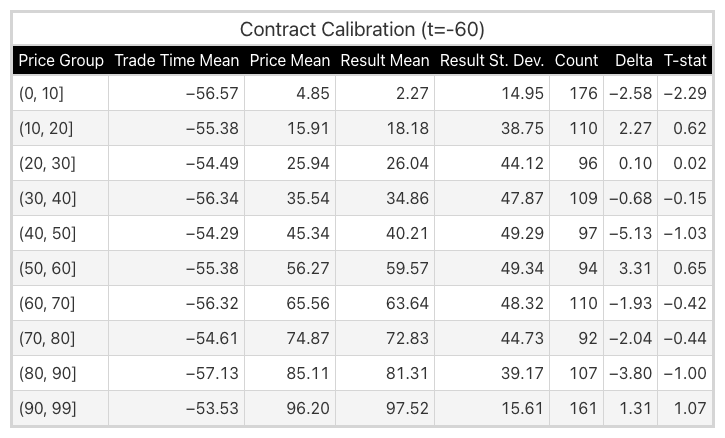
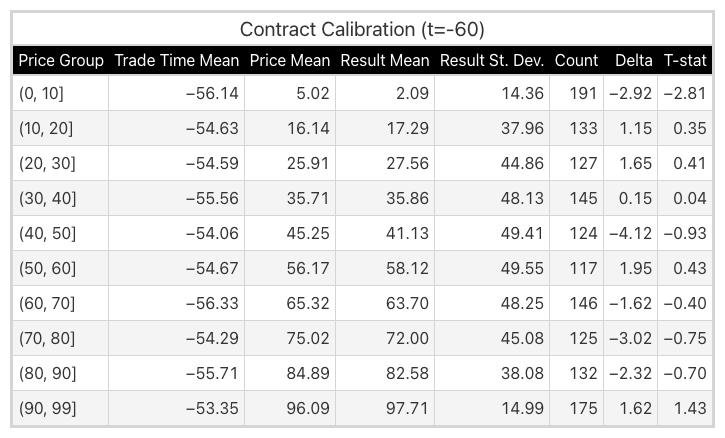
Updated results.

diff --git a/nt_research/research/underdog_risk_premium/experiment_4.py b/nt_research/research/underdog_risk_premium/experiment_4.py
@@ -160,7 +160,7 @@ if __name__ == "__main__":
     os.makedirs(folder, exist_ok=True)
 
     # Load data
-    df = pl.read_parquet('data/2025-10-23_history_daily.parquet')
+    df = pl.read_parquet('data/2025-11-02_history_daily.parquet')
 
     # Get strategy returns
     results = get_strategy_returns(df, price_min, price_max)

diff --git a/nt_research/research/underdog_risk_premium/data_utils.py b/nt_research/research/underdog_risk_premium/data_utils.py
@@ -8,7 +8,7 @@ def get_trades(
     time_bin: str | None = None,
     price_bin: str | None = None,
 ):
-    df = pl.read_parquet("data/2025-10-23_history.parquet")
+    df = pl.read_parquet("data/2025-11-02_history.parquet")
 
     price_breaks = [0, 10, 20, 30, 40, 50, 60, 70, 80, 90, 99]
     time_breaks = np.arange(
